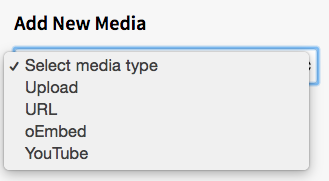
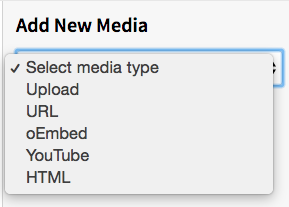
spelling and grammar
some image updates to reflect changes in dropdown, etc.

Changed region(s): [[0.0, 0.0276, 0.9965, 1.0]]

diff --git a/content/Items.md b/content/Items.md
@@ -2,11 +2,11 @@
 title: Items
 ---
 
-Items are the building blocks of the Omeka system. They can be images, texts, objects, or many other item types. Before creating items you may want to create [Resource Templates](../ResourceTemplate/), which will load specific fields for various item types which you define.
+Items are the building blocks of the Omeka system. Each item record represents a Before creating items you may want to create [Resource Templates](../ResourceTemplate/), which will load specific fields for various item types which you define.
 
 You can browse the items in your OmekaS install from the Items tab on the left-hand navigation of the main administrative dashboard. Each item appears as a row, with the *Title*, buttons for options to *edit* (pencil), *delete* (trash can), or *view details* (ellipses), the *Class*, and *Date Created*. The list of items can be sorted by any of the fields listed using the up/down arrow icons at the end of that section.  
 
-![Basic view of admin items page, showing a handful of item resources](contentfiles/itemsOS.png)
+![Basic view of admin items page, showing a handful of item resources](../contentfiles/itemsOS.png)
 
 ## Adding an Item
 
@@ -15,11 +15,11 @@ To add a new item, begin by selecting the the _Add new item_ button.
 ### Values
 The Values tab is where you enter metadata information such as title, description, etc.
 
-![Basic view of add items page, with no content entered](contentfiles/AddItem_start.png)
+![Basic view of add items page, with no content entered](../contentfiles/AddItem_start.png)
 
 1. If desired, select a resource template from the top drop-down menu. Resource templates are defined by the site administrators and editors.
   * If using a resource template, the class should automatically load.
-  * If not using a resource template, select a class from the dropdown (these are populated from the Vocabularies in your installation).
+  * If not using a resource template, select a class from the dropdown menu (these are populated from the Vocabularies in your installation).
 1. Add information to the fields provided.  
   1. You have the choice of three forms of input for fields in your item resources: text, a resource from the installation, or an external link.  
     * **Text** fields are entered with text, which can include html code.  
@@ -27,18 +27,31 @@ The Values tab is where you enter metadata information such as title, descriptio
      You have the option to use either another item or an item set. 
      Once you select an item or item set, detailed information will load, and you must click *select resource* to finish linking the resources. You can also click the *X* button in the upper right-hand corner to go back to the list of items or item sets.
 
-      ![Select Item menu with list of items to link in edit item view](contentfiles/AddItem_resource.png)
+      ![Select Item menu with list of items to link in edit item view](../contentfiles/AddItem_resource.png)
     * **URI** fields link to an external website or online resource.
 1. You can add additional fields by selecting a property from the list on the right side of the screen. You can either browse fields by vocabulary (Dublin Core, Bibliographic Ontology, etc), or search in the *filter properties* bar above the list of properties and vocabularies.
 
 ### Media
 Use the *Media* tab to add images, video, or other files.
-1. Using the dropdown of the *Add New Media* menu on the right side of the screen, select a media type (Upload, URL, oEmbed, or YouTube)
-  ![“Add new media” dropdown showing the options](contentfiles/AddItem_media.png)
+Using the dropdown of the *Add New Media* menu on the right side of the screen, select a media type (Upload, URL, oEmbed, YouTube, or HTML)
+  ![“Add new media” dropdown showing the options](../contentfiles/AddItem_media.png)
+- *Upload*: select a file to upload from your computer.
+- *URL*: add a link to a website or web resource.
+- *oEmbed*: insert an embedded representation of an external URL. Note that this will only work with content from existing oEmbed providers.
+- *HTML*: add html content as a media resource for your item.
+
+While editing, you can delete any media instance using the delete button (trashcan) on the upper right corner of the media block.
+
+![Blank media instance blocks for URL, upload](../contentfiles/AddItem_media2.png)
+
+If you have more than one media instance for an item, you can reorder them by dragging and drop each media instance block, using the icon of three lines in the upper left corner of the block as the anchor when dragging (click there).
 
 ### Item Sets
 Use the dropdown to add the item to an item set.
 
 ### Visibility
-Use the Public checkbox in the upper right-hand corner of the Item add/edit view to set the item visible to the public or not.
+Use the *make public/private* button (eye icon) to set whether the item is visible to the public or only to users of the OmekaS install. 
 
+![make public button showing an eye icon](../contentfiles/item_public.png) Public 
+
+![make private button showing an eye icon with a diagonal slash through it](../contentfiles/item_private.png) 

diff --git a/admin-dashboard.md b/admin-dashboard.md
@@ -6,21 +6,21 @@ The administrative dashboard manages the content shared by all OmekaS sites as w
 
 ![Left-hand view on the admin dashboard, which appears consistently throughout the admin interface, with options as described below](../files/admindashleft.png)
 
-The following content appears on the left side of the admin interface, both in the main dashboard (/admin) and throughout the administrative side of the installation. 
+The following content appears on the left side of the admin dashboard, both in the main view of the installation (/admin) and throughout the administrative side of the installation. 
 
 In the upper left corner of the screen is a link displaying the name of the installation which will always take you back to the admin dashboard (/admin). 
 
 Underneath the site name is a search field which has an option for advanced search (ellipses) in addition to the button to search (magnifying glass). The search function here covers all content on the administrative install, including items, vocabularies, resource templates, and media.  
 
-From the left hand navigation of the admin dashboard, access the following functions:
+From the left hand navigation of the admin dashboard, users can access the following functions:
 
 - [Items](../content/items.md): manage the individual resources of your install.
-- *Media*: browse media content related to Items.
+- *Media*: browse media content related to items.
 - [Item Sets](../content/item-sets.md): manage aggregated groups of items.
-- [Vocabularies](../content/vocabularies.md) manage the metadata standards for your install.
+- [Vocabularies](../content/vocabularies.md): manage the metadata standards for your install.
 - [Resource Templates](../content/resource-template.md): manage predefined sets of properties (fields) to use when creating items.
 - [Users](../users.md): manage users for the whole install and individual sites.
-- *Modules* add functionality to your sites
-- *Jobs* show you what user-activated tasks are currently running. NB: jobs only display when they are running.
-- [Sites](../sites/sites.md) lists and provides access to all of the sites on the OmekaS install
-- *Settings* for specifying the global settings for all sites, the admin dashboard and the site dashboards.
+- *Modules*: add functionality to your sites.
+- *Jobs*: displays the user-activated tasks which are currently running. NB: jobs only display when they are running.
+- [Sites](../sites/sites.md): lists and provides access to all of the sites on the OmekaS install.
+- *Settings*: manage the global settings for all sites, the admin dashboard and the site dashboards.
